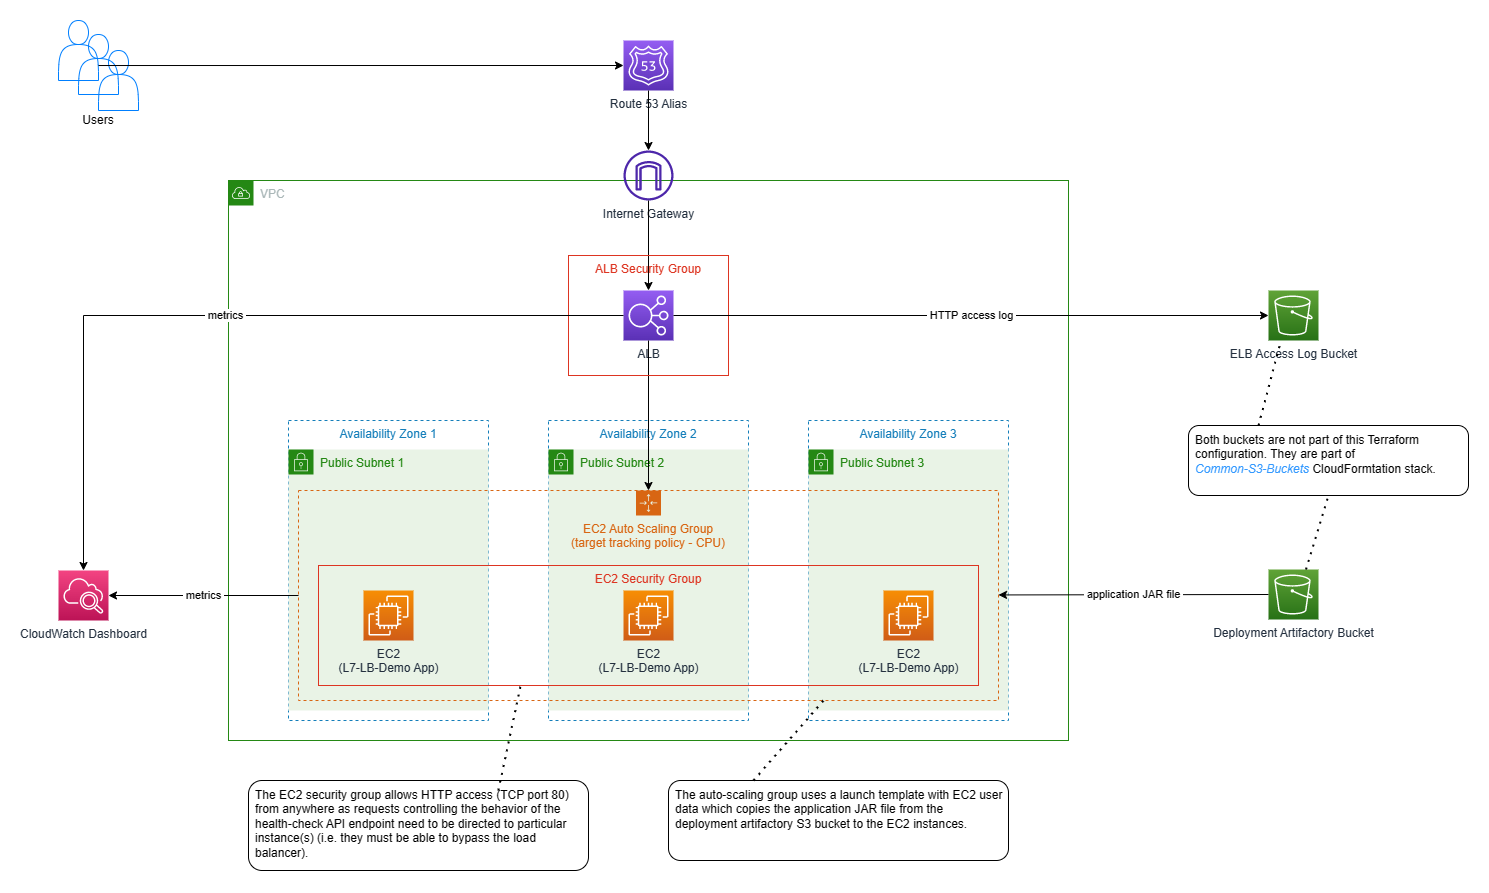
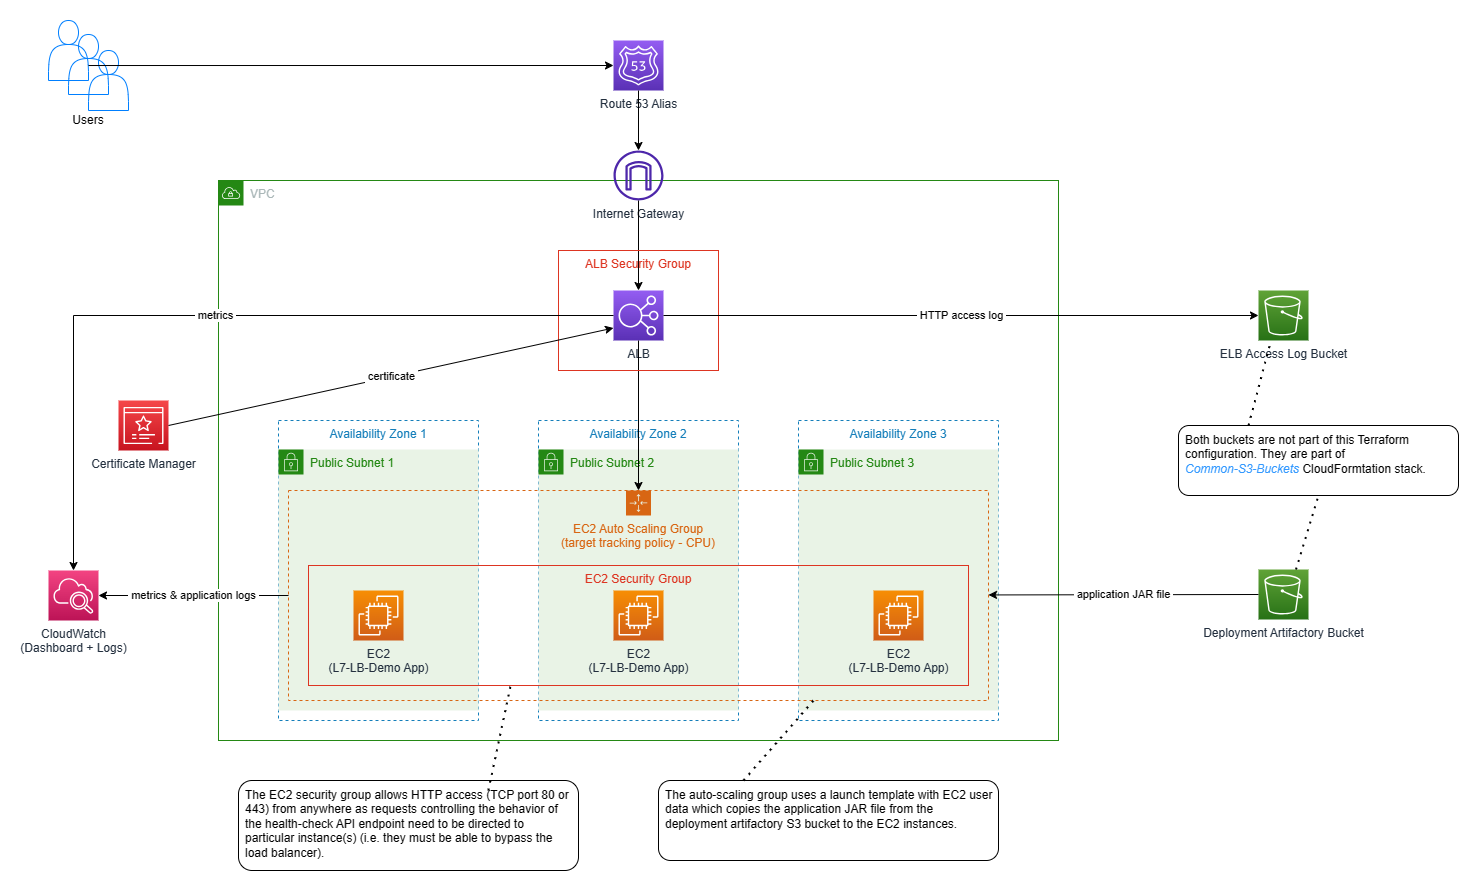
L7-LB-Demo (Terraform) - application log written to CloudWatch

diff --git a/Terraform-Sandbox/L7-Load-Balancing/README.md b/Terraform-Sandbox/L7-Load-Balancing/README.md
@@ -8,8 +8,8 @@ This deployment relies on several buckets created by the [Common-S3-Buckets](../
 
 The configuration is divided to the following modules:
 * **vpc** module is responsible for provisioning of a VPC, its subnets, route table and Internet Gateway.
-* **alb** module provisions an ALB, including ALB listener and target group. Security group restricting network access to the ALB is also provisioned by this module. Optionally, ALB access log can also be enabled/configured.
-* **asg** module is responsible for provisioning of an EC2 auto-scaling group with target-tracking policy which adapts the number of EC2 instances based on the aggregate CPU utilization for the entire auto-scaling group. IAM instance profile for the EC2 instances as well as security group restricting network access to the EC2 instances are provisioned as well.
+* **alb** module provisions an ALB, including ALB listener and target group. Security group restricting network access to the ALB is also provisioned by this module. Optionally, ALB access log can also be enabled/configured. The ALB listener can be configured to use HTTPS protocol and an ACM certificate.
+* **asg** module is responsible for provisioning of an EC2 auto-scaling group with target-tracking policy which adapts the number of EC2 instances based on the aggregate CPU utilization for the entire auto-scaling group. IAM instance profile for the EC2 instances as well as security group restricting network access to the EC2 instances are provisioned as well. The EC2 instances use CloudWatch Agent to push the application logs to CloudWatch Logs.
 * **route53** module optionally provisions a Route 53 alias for the ALB.
 * **cloudwatch** module creates a CloudWatch dashboard that visualizes some metrics like CPU utilization for the EC2 auto-scaling group.
 
@@ -43,8 +43,22 @@ application_installation = {
 }
 
 ec2_settings = {
-  instance_type = "t2.nano"
+  instance_type = "t2.micro"
   port          = 8080
+}
+
+/* enable this if you want plain HTTP - in such case, disable the settings below which are meant for HTTPS
+alb_settings = {
+  port            = 80
+  protocol        = "HTTP"
+  certificate_arn = null
+}
+*/
+
+alb_settings = {
+  port            = 443
+  protocol        = "HTTPS"
+  certificate_arn = "arn:aws:acm:eu-central-1:467504711004:certificate/fae97c88-06af-4113-8537-adf2c080be97"
 }
 
 alb_access_log_settings = {
